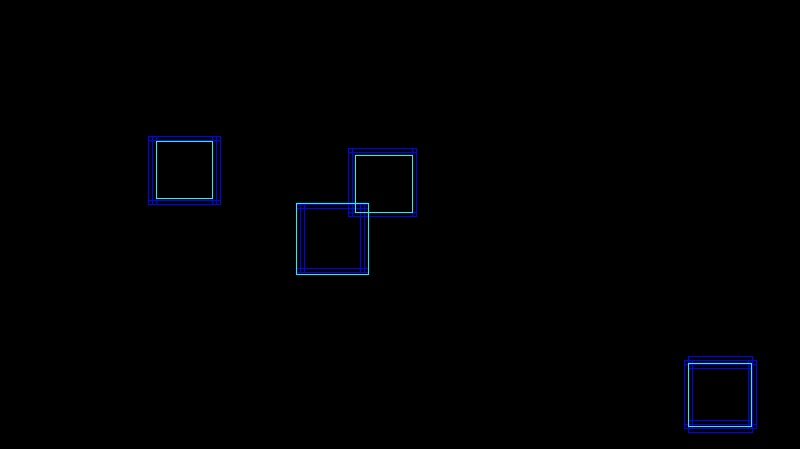
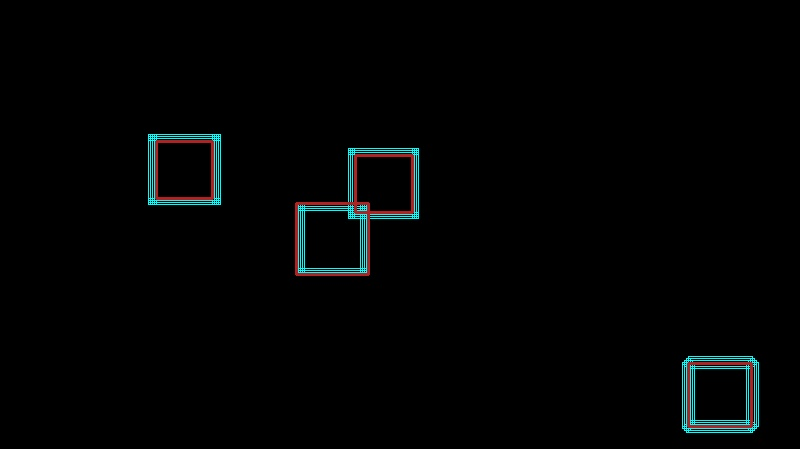
reduce 2 experiment

Changed region(s): [[0.3438, 0.3118, 0.5312, 0.6236], [0.8438, 0.7795, 0.9688, 0.9666], [0.1875, 0.2806, 0.2812, 0.4677]]

diff --git a/detectors/OFTTrainer.py b/detectors/OFTTrainer.py
@@ -145,10 +145,8 @@ class OFTtrainer(BaseTrainer):
             left_n_sample = left_roi_cls_loc.shape[0]
             left_roi_cls_loc = left_roi_cls_loc.view(left_n_sample, -1, 4)
             left_roi_loc = left_roi_cls_loc[torch.arange(0, left_n_sample).long().cuda(), at.totensor(left_gt_label).long()]
-            print("bbb", left_roi_cls_loc.shape, torch.arange(0, left_n_sample).long().shape, at.totensor(left_gt_label).long().shape, left_n_sample)
             left_gt_label = at.totensor(left_gt_label).long()
             left_gt_loc = at.totensor(left_gt_loc)
-            print("left_roi_loc", left_roi_loc.shape)
             # left_roi_loc_loss = _fast_rcnn_loc_loss(
             #     left_roi_loc.contiguous(),
             #     left_gt_loc,
@@ -466,8 +464,7 @@ class OFTtrainer(BaseTrainer):
             # all_bev_boxes, _, all_sincos_remain, position_mark_keep = nms_new(all_roi_remain, all_front_prob, all_pred_sincos, position_mark)
             # s = time.time()
             v, indices = torch.tensor(all_front_prob).sort(0)
-            indices_remain = indices[v > 0.5]
-            print(v)
+            indices_remain = indices[v > 0.18  ]
             # print(v)
             print(frame)
             all_roi_remain = all_roi_remain[indices_remain].reshape(len(indices_remain), 4)
@@ -606,6 +603,7 @@ class OFTtrainer(BaseTrainer):
 
 def visualize_3dbox(pred_ori, pred_angle, position_mark, extrin, intrin, idx):
     left_img = cv2.imread("/home/dzc/Data/mix/img/left1/%d.jpg" % (idx))
+    right_img = cv2.imread("/home/dzc/Data/mix/img/right2/%d.jpg" % (idx))
     boxes_3d = []
     n_bbox = pred_ori.shape[0]
     for i, bbox in enumerate(pred_ori):
@@ -708,6 +706,7 @@ def visualize_3dbox(pred_ori, pred_angle, position_mark, extrin, intrin, idx):
     pred_ori = np.array(boxes_3d).reshape((n_bbox, 9, 3))
 
     projected_2d = getprojected_3dbox(pred_ori, extrin, intrin, isleft=True)
+    projected_2d = getprojected_3dbox(pred_ori, extrin, intrin, isleft=False)
     # projected_2d = getprojected_3dbox_ori(pred_ori, extrin, intrin, position_mark)
 
     # index_inside = np.where(
@@ -725,19 +724,19 @@ def visualize_3dbox(pred_ori, pred_angle, position_mark, extrin, intrin, idx):
             color = (255, 255, 0)
         else:
             color = (255, 255, 0)
-        cv2.line(left_img, (projected_2d[k][0][0], projected_2d[k][0][1]), (projected_2d[k][1][0], projected_2d[k][1][1]), color = color, thickness=2)
-        cv2.line(left_img, (projected_2d[k][0][0], projected_2d[k][0][1]), (projected_2d[k][3][0], projected_2d[k][3][1]), color = color, thickness=2 )
-        cv2.line(left_img, (projected_2d[k][0][0], projected_2d[k][0][1]), (projected_2d[k][4][0], projected_2d[k][4][1]), color = color, thickness=2)
-        cv2.line(left_img, (projected_2d[k][1][0], projected_2d[k][1][1]), (projected_2d[k][5][0], projected_2d[k][5][1]), color = color, thickness=2)
-        cv2.line(left_img, (projected_2d[k][1][0], projected_2d[k][1][1]), (projected_2d[k][2][0], projected_2d[k][2][1]), color = color, thickness=2)
-        cv2.line(left_img, (projected_2d[k][2][0], projected_2d[k][2][1]), (projected_2d[k][3][0], projected_2d[k][3][1]), color = color, thickness=2)
-        cv2.line(left_img, (projected_2d[k][2][0], projected_2d[k][2][1]), (projected_2d[k][6][0], projected_2d[k][6][1]), color = color, thickness=2)
-        cv2.line(left_img, (projected_2d[k][3][0], projected_2d[k][3][1]), (projected_2d[k][7][0], projected_2d[k][7][1]), color = color, thickness=2)
-        cv2.line(left_img, (projected_2d[k][4][0], projected_2d[k][4][1]), (projected_2d[k][5][0], projected_2d[k][5][1]), color = color, thickness=2)
-        cv2.line(left_img, (projected_2d[k][5][0], projected_2d[k][5][1]), (projected_2d[k][6][0], projected_2d[k][6][1]), color = color, thickness=2)
-        cv2.line(left_img, (projected_2d[k][6][0], projected_2d[k][6][1]), (projected_2d[k][7][0], projected_2d[k][7][1]), color = color, thickness=2)
-        cv2.line(left_img, (projected_2d[k][7][0], projected_2d[k][7][1]), (projected_2d[k][4][0], projected_2d[k][4][1]), color = color, thickness=2)
-        cv2.line(left_img, (projected_2d[k][7][0], projected_2d[k][7][1]), (projected_2d[k][4][0], projected_2d[k][4][1]), color = color, thickness=2)
+        cv2.line(right_img, (projected_2d[k][0][0], projected_2d[k][0][1]), (projected_2d[k][1][0], projected_2d[k][1][1]), color = color, thickness=2)
+        cv2.line(right_img, (projected_2d[k][0][0], projected_2d[k][0][1]), (projected_2d[k][3][0], projected_2d[k][3][1]), color = color, thickness=2 )
+        cv2.line(right_img, (projected_2d[k][0][0], projected_2d[k][0][1]), (projected_2d[k][4][0], projected_2d[k][4][1]), color = color, thickness=2)
+        cv2.line(right_img, (projected_2d[k][1][0], projected_2d[k][1][1]), (projected_2d[k][5][0], projected_2d[k][5][1]), color = color, thickness=2)
+        cv2.line(right_img, (projected_2d[k][1][0], projected_2d[k][1][1]), (projected_2d[k][2][0], projected_2d[k][2][1]), color = color, thickness=2)
+        cv2.line(right_img, (projected_2d[k][2][0], projected_2d[k][2][1]), (projected_2d[k][3][0], projected_2d[k][3][1]), color = color, thickness=2)
+        cv2.line(right_img, (projected_2d[k][2][0], projected_2d[k][2][1]), (projected_2d[k][6][0], projected_2d[k][6][1]), color = color, thickness=2)
+        cv2.line(right_img, (projected_2d[k][3][0], projected_2d[k][3][1]), (projected_2d[k][7][0], projected_2d[k][7][1]), color = color, thickness=2)
+        cv2.line(right_img, (projected_2d[k][4][0], projected_2d[k][4][1]), (projected_2d[k][5][0], projected_2d[k][5][1]), color = color, thickness=2)
+        cv2.line(right_img, (projected_2d[k][5][0], projected_2d[k][5][1]), (projected_2d[k][6][0], projected_2d[k][6][1]), color = color, thickness=2)
+        cv2.line(right_img, (projected_2d[k][6][0], projected_2d[k][6][1]), (projected_2d[k][7][0], projected_2d[k][7][1]), color = color, thickness=2)
+        cv2.line(right_img, (projected_2d[k][7][0], projected_2d[k][7][1]), (projected_2d[k][4][0], projected_2d[k][4][1]), color = color, thickness=2)
+        cv2.line(right_img, (projected_2d[k][7][0], projected_2d[k][7][1]), (projected_2d[k][4][0], projected_2d[k][4][1]), color = color, thickness=2)
 
         # cv2.line(left_img, (projected_2d[k][0+ 9][0], projected_2d[k][0+ 9][1]), (projected_2d[k][1+ 9][0], projected_2d[k][1+ 9][1]), color = (255, 255, 0))
         # cv2.line(left_img, (projected_2d[k][0+ 9][0], projected_2d[k][0+ 9][1]), (projected_2d[k][3+ 9][0], projected_2d[k][3+ 9][1]), color = (255, 255, 0))
@@ -753,9 +752,9 @@ def visualize_3dbox(pred_ori, pred_angle, position_mark, extrin, intrin, idx):
         # cv2.line(left_img, (projected_2d[k][7+ 9][0], projected_2d[k][7+ 9][1]), (projected_2d[k][4+ 9][0], projected_2d[k][4+ 9][1]), color = (255, 255, 0))
         # cv2.line(left_img, (projected_2d[k][7+ 9][0], projected_2d[k][7+ 9][1]), (projected_2d[k][4+ 9][0], projected_2d[k][4+ 9][1]), color = (255, 255, 0))
         #
-        cv2.arrowedLine(left_img, (int((projected_2d[k][0][0] + projected_2d[k][2][0]) / 2), int((projected_2d[k][0][1] + projected_2d[k][2][1]) / 2)), (projected_2d[k][8][0], projected_2d[k][8][1]), color = (255, 60, 199), thickness=2)
+        cv2.arrowedLine(right_img, (int((projected_2d[k][0][0] + projected_2d[k][2][0]) / 2), int((projected_2d[k][0][1] + projected_2d[k][2][1]) / 2)), (projected_2d[k][8][0], projected_2d[k][8][1]), color = (255, 60, 199), thickness=2)
         # cv2.line(left_img, (int((projected_2d[k][0+ 9][0] + projected_2d[k][2+ 9][0]) / 2), int((projected_2d[k][0+ 9][1] + projected_2d[k][2+ 9][1]) / 2)), (projected_2d[k][8+ 9][0], projected_2d[k][8+ 9][1]), color = (255, 60, 199), thickness=2)
-    cv2.imwrite("/home/dzc/Desktop/CASIA/proj/mvRPN-det/results/images/3d_box_blend/%d.jpg" % idx, left_img)
+    cv2.imwrite("/home/dzc/Desktop/CASIA/proj/mvRPN-det/results/images/3d_box_blend/%d.jpg" % idx, right_img)
 
 def _smooth_l1_loss(x, t, in_weight, sigma):
     sigma2 = sigma ** 2

diff --git a/detectors/models/persp_trans_detector.py b/detectors/models/persp_trans_detector.py
@@ -56,7 +56,7 @@ class PerspTransDetector(nn.Module):
                               for cam in range(self.num_cam)]
 
         self.backbone = nn.Sequential(*list(resnet18(pretrained=True, replace_stride_with_dilation=[False, False, False]).children())[:-2]).to('cuda:0')
-        self.rpn = RegionProposalNetwork(in_channels=1026, mid_channels=1026, ratios=[1], anchor_scales=[4 * (4 / (Const.reduce))]).to('cuda:1')
+        self.rpn = RegionProposalNetwork(in_channels=1026, mid_channels=1026, ratios=[1], anchor_scales=[4]).to('cuda:1')
         # my_cls = nn.Sequential(nn.Linear(25088, 2048, bias=True),
         #                        nn.ReLU(inplace=True),
         #                        nn.Dropout(p=0.5, inplace=False),
@@ -99,6 +99,7 @@ class PerspTransDetector(nn.Module):
                 proj_mat = self.proj_mats2[cam].repeat([B, 1, 1]).float().to('cuda:1')
 
             world_feature = kornia.warp_perspective(img_feature.to('cuda:1'), proj_mat, self.reducedgrid_shape) # 0.0142 * 2 = 0.028
+            # print("reducedgrid_shape", self.reducedgrid_shape)
 
             world_feature = kornia.vflip(world_feature)
             world_features.append(world_feature.to('cuda:1'))
@@ -113,7 +114,7 @@ class PerspTransDetector(nn.Module):
         # print(X.shape, Y.shape, feature_to_plot.shape)
         # ax.plot_surface(X, Y, feature_to_plot,  cmap=plt.get_cmap('rainbow'))
         # plt.savefig("dzc3d.jpg" % frame)
-
+        # print("world_features", world_features.shape)
         rpn_locs, rpn_scores, anchor, rois, roi_indices = self.rpn(world_features, Const.grid_size) # 0.08
         #
         # batch_images = torch.zeros((1, 3, Const.grid_height, Const.grid_width))

diff --git a/detectors/models/region_proposal_network.py b/detectors/models/region_proposal_network.py
@@ -54,17 +54,17 @@ class RegionProposalNetwork(nn.Module):
         n, _, hh, ww = x.shape
         anchor = _enumerate_shifted_anchor(
             np.array(self.anchor_base),
-            self.feat_stride, hh, ww)
+            self.feat_stride, hh, ww) # 特征图根据feat stride放大到原图，所以生成的是能覆盖原图的anchor，所以是原始grid大小
 
         n_anchor = anchor.shape[0] // (hh * ww)
-        print("n_anchor", n_anchor)
-        # a = np.zeros((img_size[0]+ 100, img_size[1]+ 100))
+        # print("n_anchor", n_anchor)
+        # a = np.zeros((img_size[0], img_size[1]))
         # img = np.uint8(a)
         # img = cv2.cvtColor(img, cv2.COLOR_GRAY2BGR)
         #
-        # for anchors in anchor[:5]:
+        # for anchors in anchor[:]:
         #     y1, x1, y2, x2 = anchors
-        #     cv2.rectangle(img, (int(x2+ 50), int(y2+ 50)),(int(x1+ 50), int(y1+ 50)), color=(255, 255, 0))
+        #     cv2.rectangle(img, (int(x2), int(y2)),(int(x1), int(y1)), color=(255, 255, 0))
         # cv2.imwrite("/home/dzc/Desktop/CASIA/proj/mvRPN-det/results/images/anchor.jpg", img)
 
         h = F.relu(self.conv1(x))

diff --git a/detectors/models/utils/creator_tool.py b/detectors/models/utils/creator_tool.py
@@ -413,13 +413,13 @@ class AnchorTargetCreator(object):
         #
         # for idx, anc in enumerate(anchor):
         #     if label[inside_index][idx] == 1:
-        #         cv2.rectangle(tmp, (int(anc[1]), int(anc[0])), (int(anc[3]), int(anc[2])), color=(255, 0, 0))
+        #         cv2.rectangle(tmp, (int(anc[1]), int(anc[0])), (int(anc[3]), int(anc[2])), color=(255, 255, 0))
         #
         # for idx, bbx in enumerate(bbox):
-        #     cv2.rectangle(tmp, (int(bbx[1]), int(bbx[0])), (int(bbx[3]), int(bbx[2])), color=(255, 255, 0))
+        #     cv2.rectangle(tmp, (int(bbx[1]), int(bbx[0])), (int(bbx[3]), int(bbx[2])), color=(34, 34,178), thickness=2)
         #
         # cv2.imwrite("/home/dzc/Desktop/CASIA/proj/mvRPN-det/anchorBase.jpg", tmp)
-        # -----------------------------------------------------------
+        # # -----------------------------------------------------------
         return loc, label
 
     def _create_label(self, inside_index, anchor, bbox):

diff --git a/main.py b/main.py
@@ -88,8 +88,8 @@ def main(args):
             # trainer.test(epoch, test_loader, writer)
         else:
             print('Testing...')
-            model.load_state_dict(torch.load("%s/mvdet_rpn_%d.pth" % (Const.modelsavedir, 10)))
-            roi_head.load_state_dict(torch.load("%s/roi_rpn_head_%d.pth" % (Const.modelsavedir, 10)))
+            model.load_state_dict(torch.load("%s/mvdet_rpn_%d.pth" % (Const.modelsavedir, 19)))
+            roi_head.load_state_dict(torch.load("%s/roi_rpn_head_%d.pth" % (Const.modelsavedir, 19)))
             trainer.test(epoch, test_loader, writer)
             break
     writer.close()

diff --git a/detectors/datasets/oftFrameDataset.py b/detectors/datasets/oftFrameDataset.py
@@ -33,8 +33,8 @@ class oftFrameDataset(VisionDataset):
         if train:
             frame_range = list(range(0, 2500)) + list(range(3201, 4100+ 3021))
         else:
+            # frame_range = list(range(435, 440)) + list(range(200, 300))+ list(range(2500, 3021))
             frame_range = list(range(2500, 3021))
-            # frame_range = list(range(2500, 3021))
 
 
         # if train:

diff --git a/EX_CONST.py b/EX_CONST.py
@@ -20,7 +20,7 @@ class Const:
 
     grid_size = [grid_height, grid_width]
 
-    reduce = 4
+    reduce = 2
 
     dataset = "mix"
 

diff --git a/detectors/models/utils/bbox_tools.py b/detectors/models/utils/bbox_tools.py
@@ -1,6 +1,6 @@
 import numpy as np
 import numpy as xp
-
+from EX_CONST import Const
 import six
 from six import __init__
 
